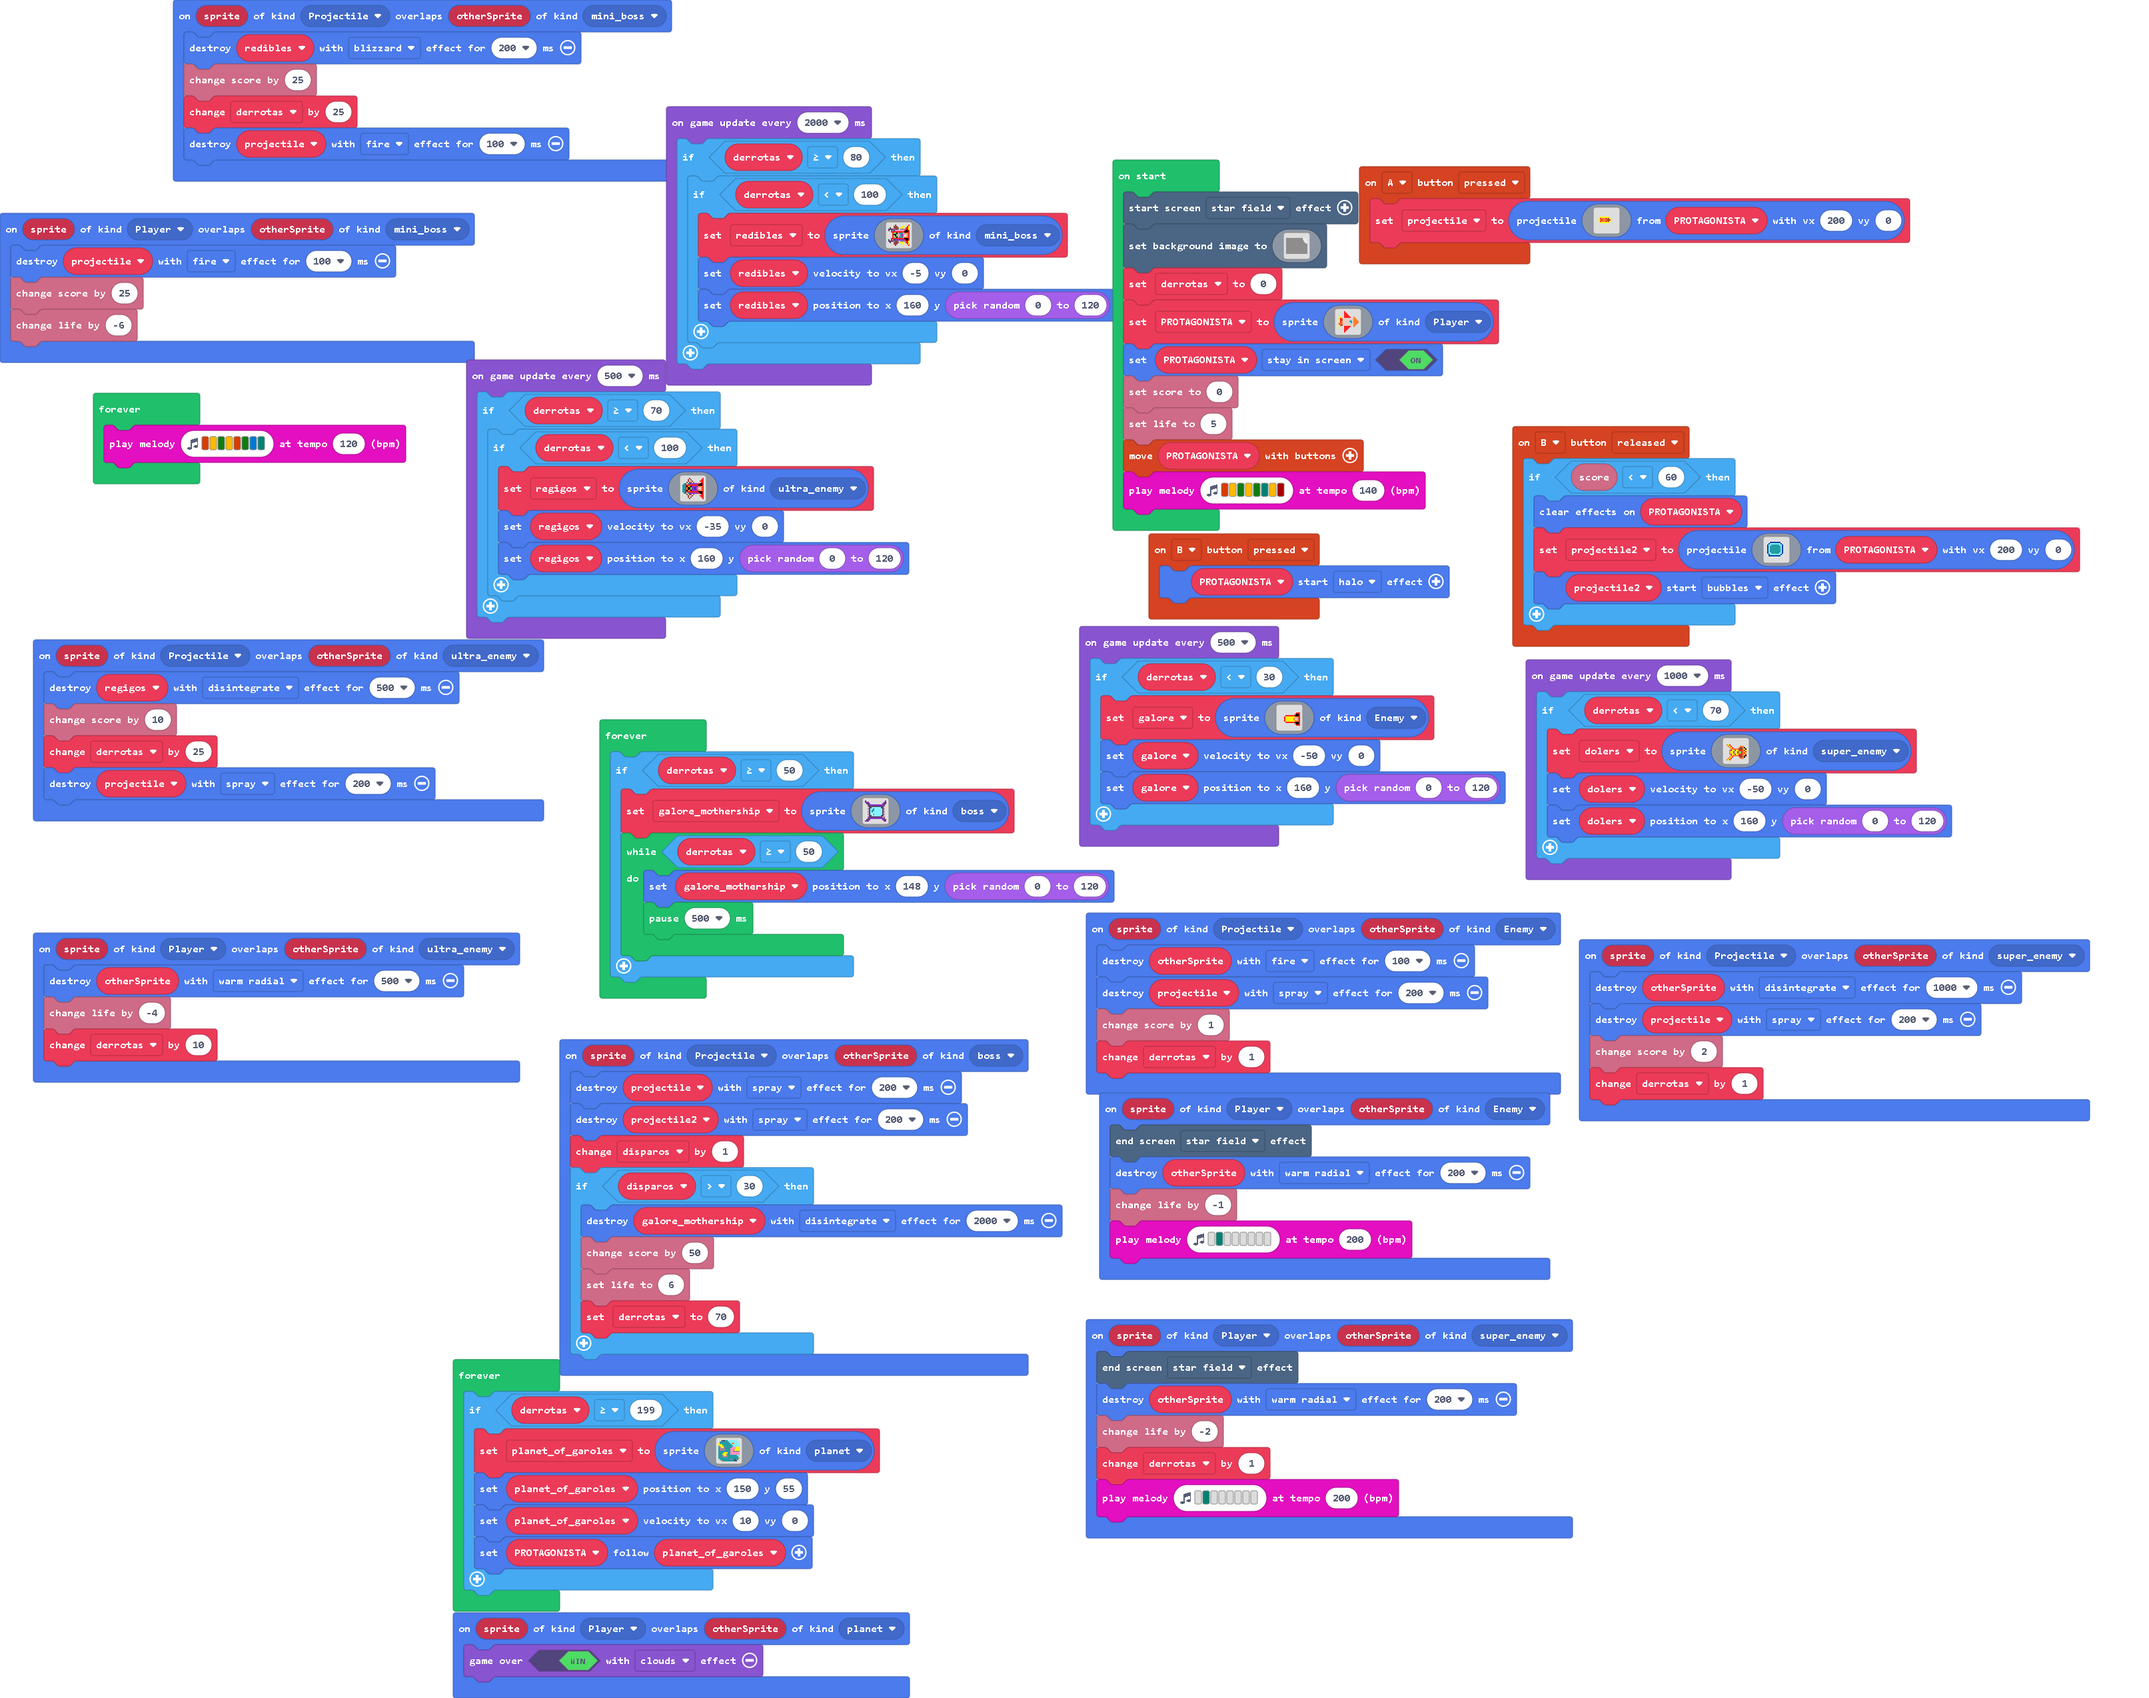
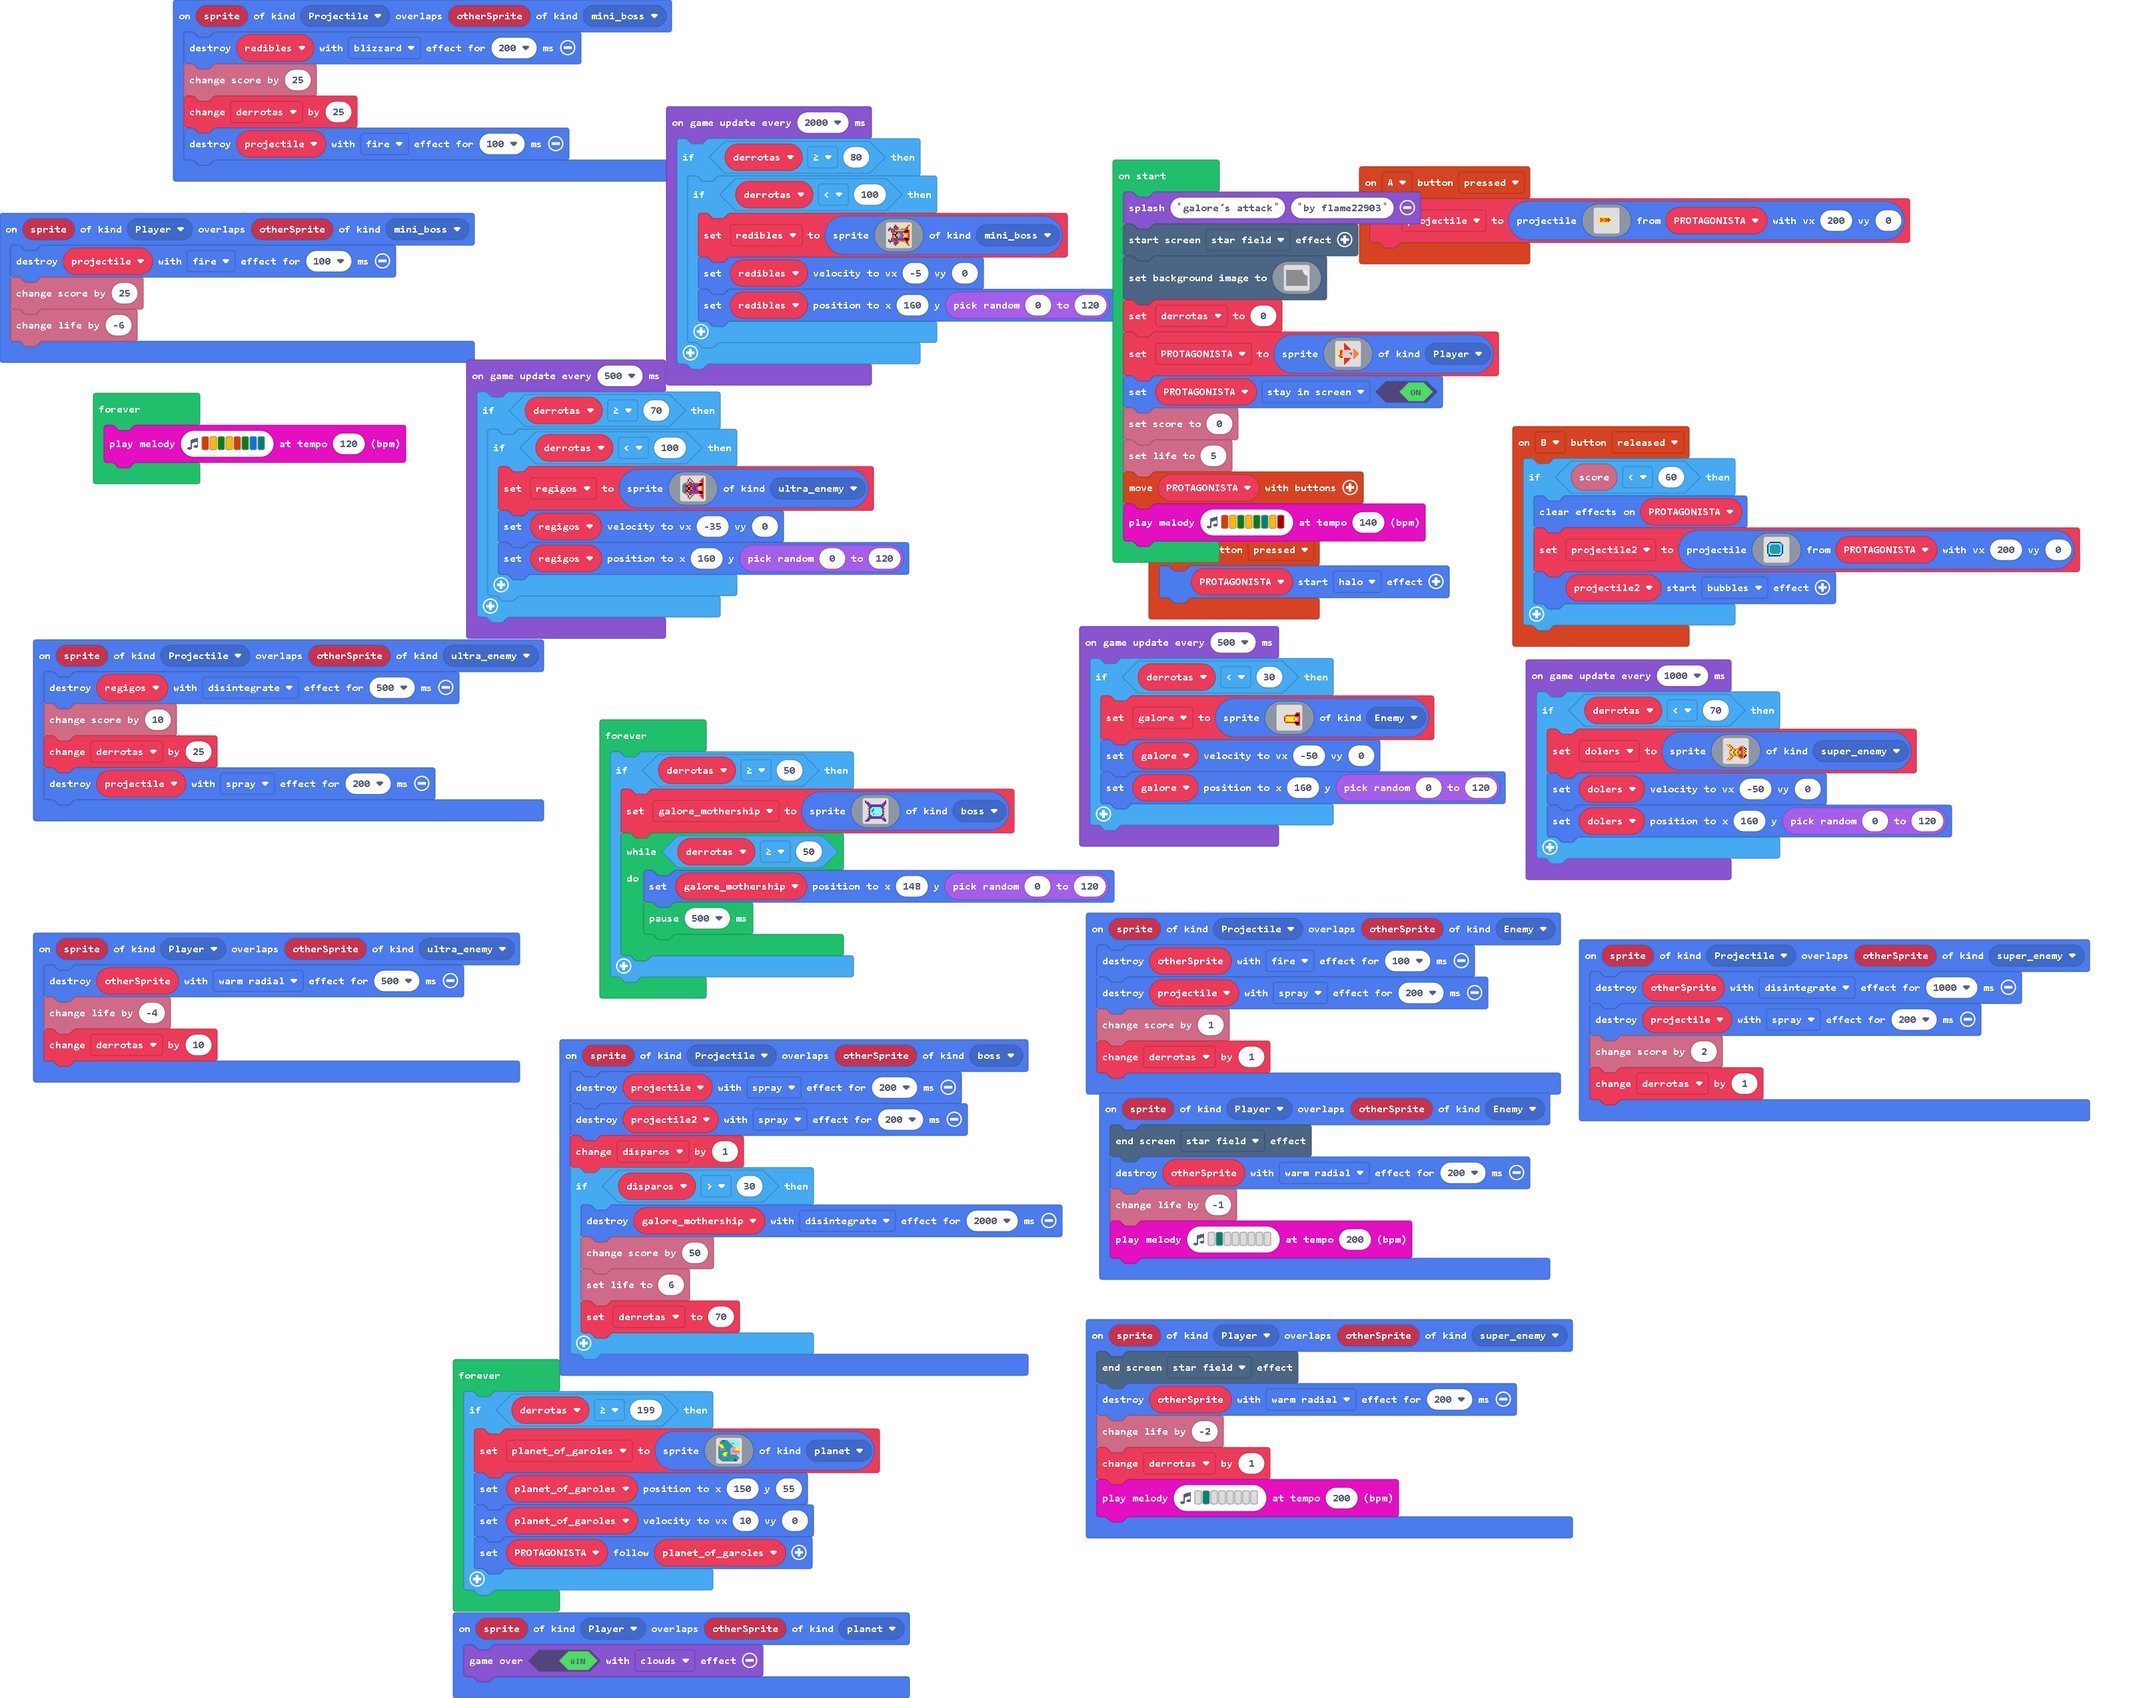
Update main.blocks, main.ts

Changed region(s): [[0.4961, 0.093, 0.7132, 0.3411]]

diff --git a/main.ts b/main.ts
@@ -126,6 +126,7 @@ let redibles: Sprite = null
 let projectile: Sprite = null
 let PROTAGONISTA: Sprite = null
 let derrotas = 0
+game.splash("galore´s attack", "by flame22903")
 effects.starField.startScreenEffect()
 scene.setBackgroundImage(img`
[1 lines of base64/hex data omitted]
